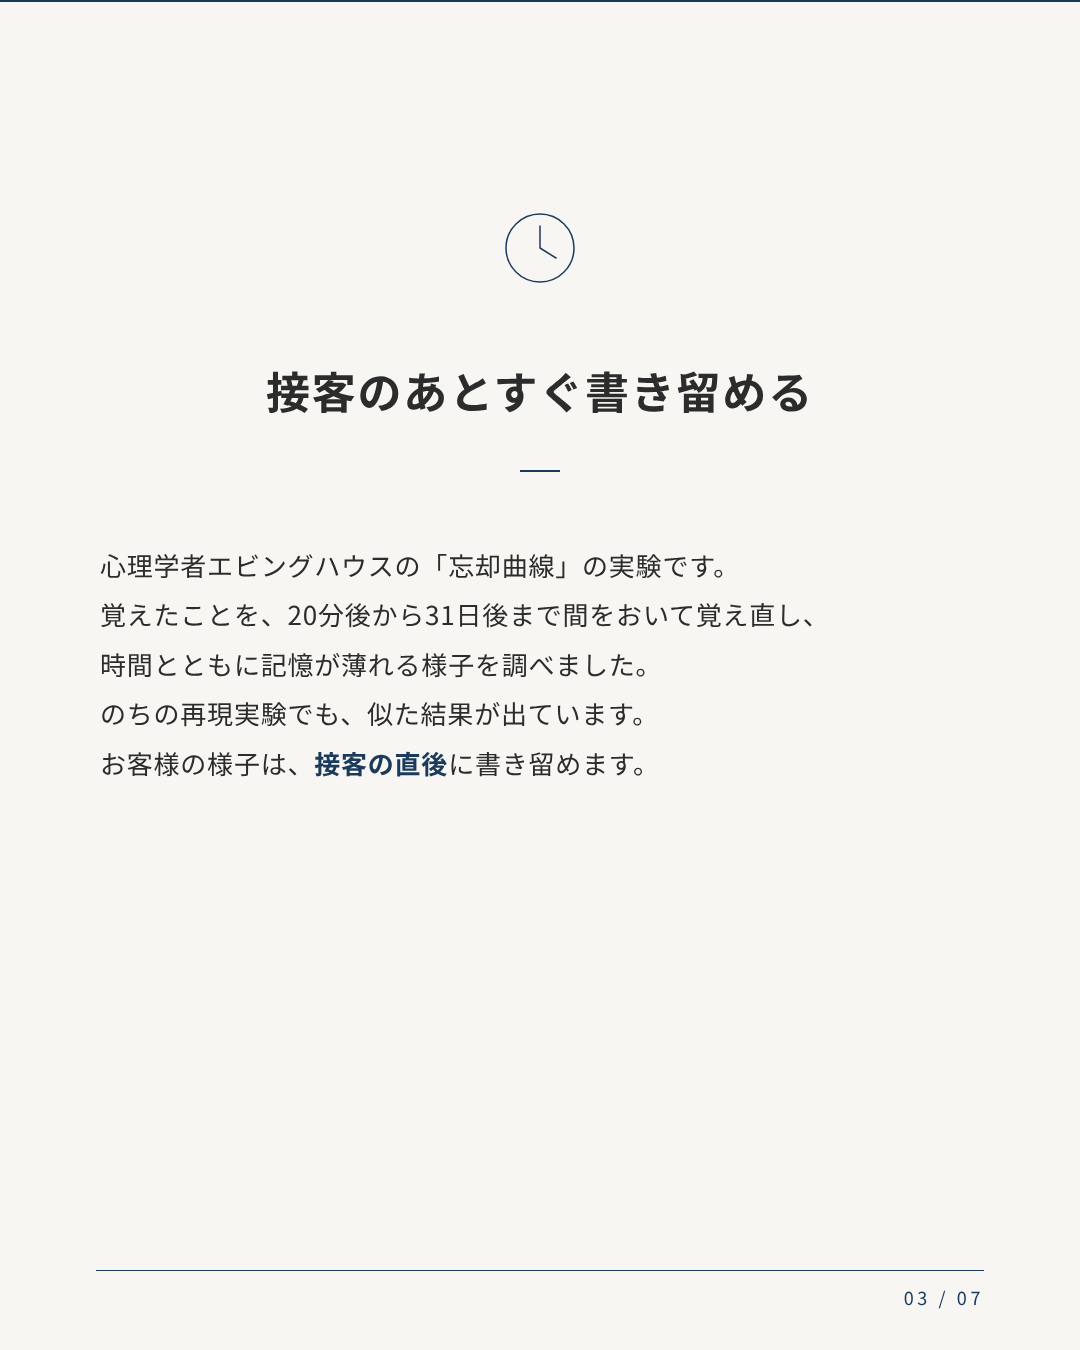
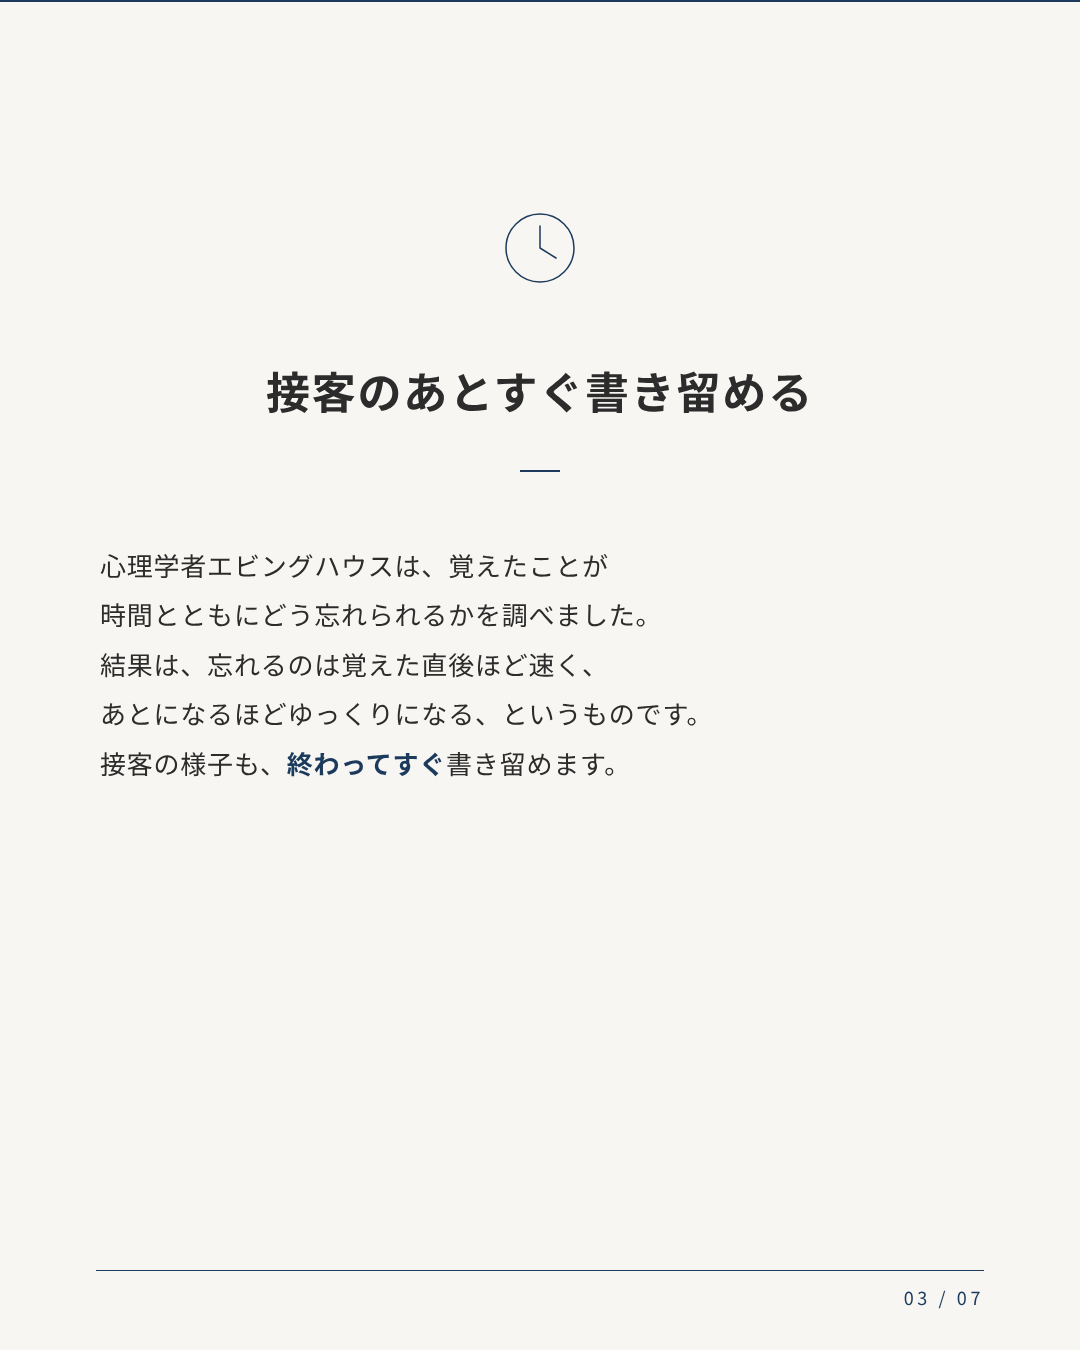
投稿の一覧を更新（11件）

Changed region(s): [[0.0917, 0.4044, 0.7333, 0.5911]]

diff --git a/index.html b/index.html
@@ -41,7 +41,7 @@ pre { white-space: pre-wrap; font: inherit; line-height: 1.7; }
 4. 声かけの合図を決めておく
 5. 内側から外側へ広げる
 
-2つ目は、心理学者エビングハウスの「忘却曲線」。時間とともに記憶が薄れるため、接客の直後に書き留めます。
+2つ目は、心理学者エビングハウスの研究。忘れるのは覚えた直後ほど速いため、接客の直後に書き留めます。
 4つ目は、心理学者ゴルヴィツァーの「こういう状況になったら、こう行動する」と前もって決める計画です。
 
 今日の一歩は、接客を一件、入店から退店まで思い出して、終わってすぐメモに書くことです。
